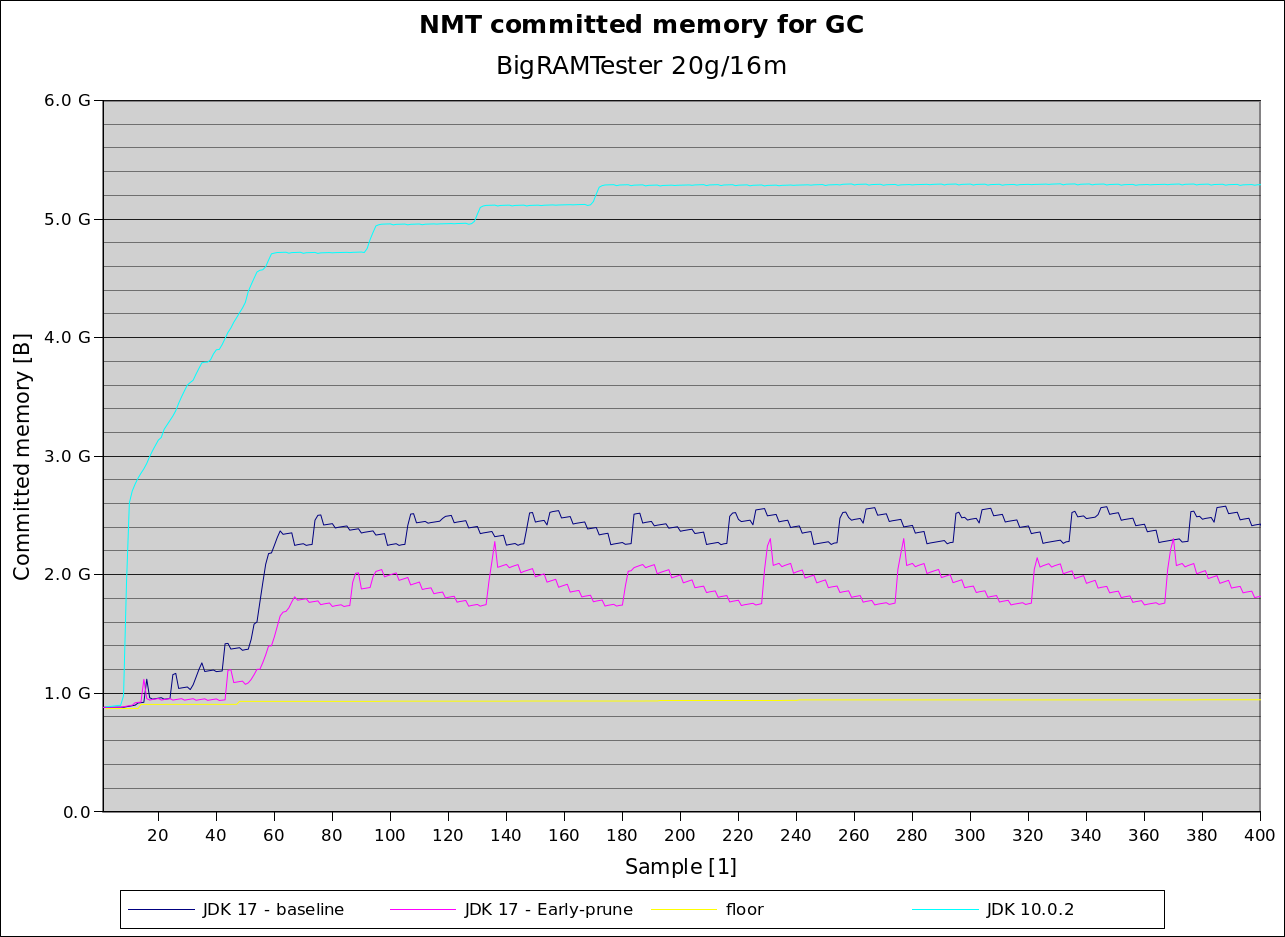
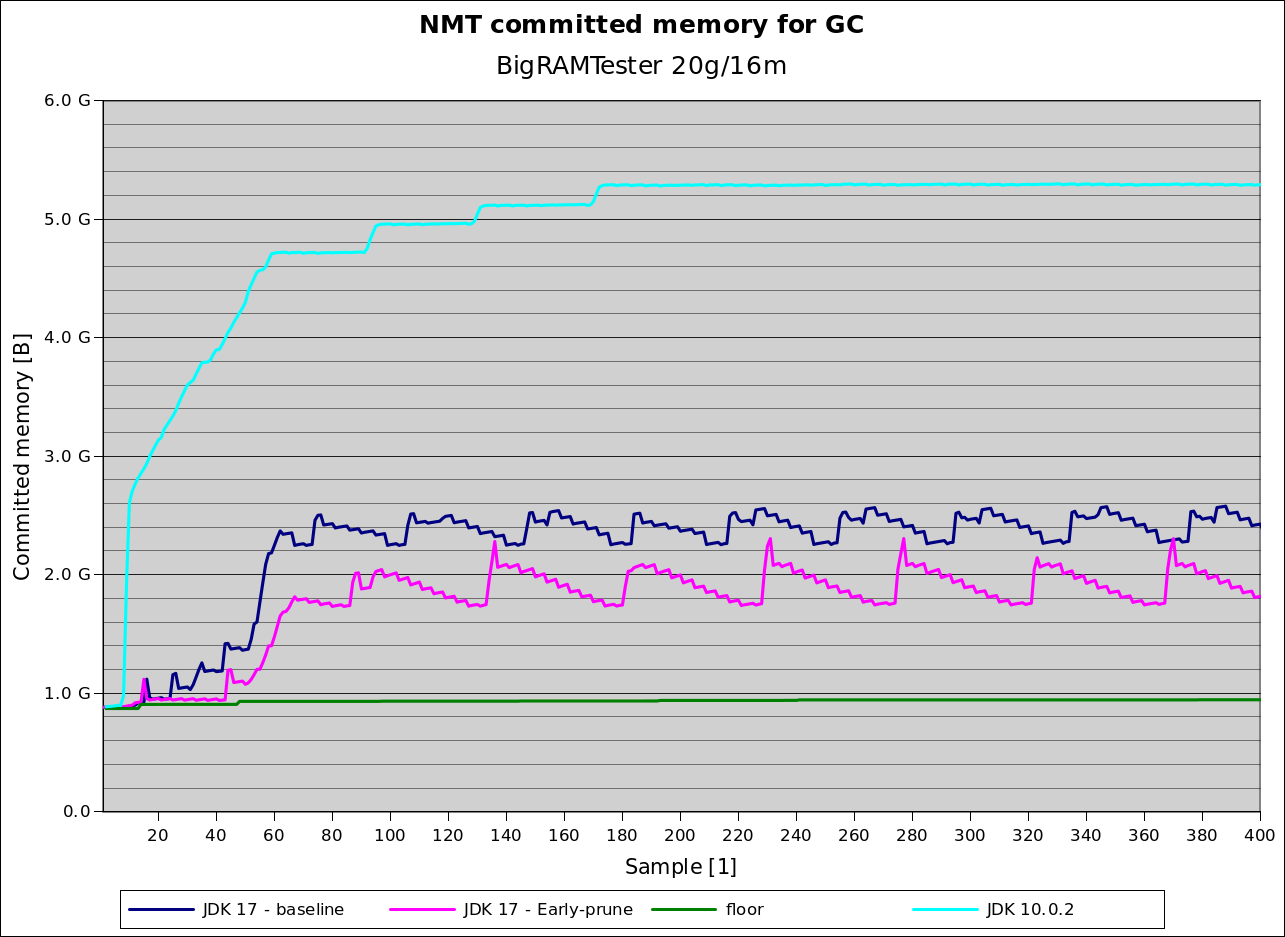
Improved graphs, thicker lines, yellow -> green

diff --git a/_posts/2021-02-26-early-prune.md b/_posts/2021-02-26-early-prune.md
@@ -29,7 +29,7 @@ The exact options are
 
 ![Current Memory Usage on BigRAMTester](/assets/20210226-baseline.png)
 
-In addition to the memory consumption ("baseline") in dark blue, the graph also shows a "floor" in yellow that shows the amount of memory used by the GC component not by the remembered set. Overall, in this case G1's remembered set takes at most 1.6 GB, around 8% of the java heap. More than the rest of what G1 needs for operation, around 900 MB
+In addition to the memory consumption ("baseline") in dark blue, the graph also shows a "floor" (green) that shows the amount of memory used by the GC component not by the remembered set. Overall, in this case G1's remembered set takes at most 1.6 GB, around 8% of the java heap. More than the rest of what G1 needs for operation, around 900 MB
 
 *Whoopsie.*
 
@@ -67,7 +67,6 @@ See you next time,
 For comparison, here is a graph showing memory consumption of the GC component for the same benchmark in JDK 10.0.2 (cyan) including the ones shown above for comparison. JDK 8 and JDK 9 are at least worse than that, but due to a bug in remembered set NMT accounting [[8]][8] it is harder to get the exact numbers.
 
 ![And what about earlier JDKs....](/assets/20210226-and-jdk10.png)
-
 
 [0]: https://docs.oracle.com/en/java/javase/15/gctuning/garbage-first-g1-garbage-collector1.html#GUID-E9CB81BC-92E5-489E-8A2E-760691A41CDF
 [1]: https://docs.oracle.com/en/java/javase/15/vm/native-memory-tracking.html
